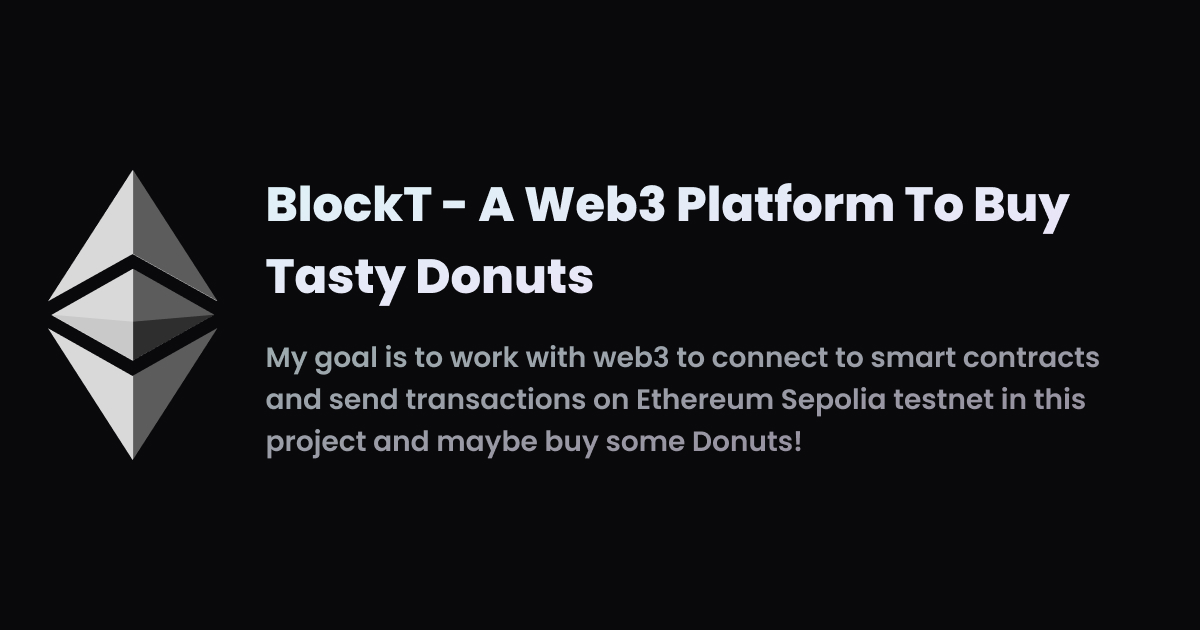
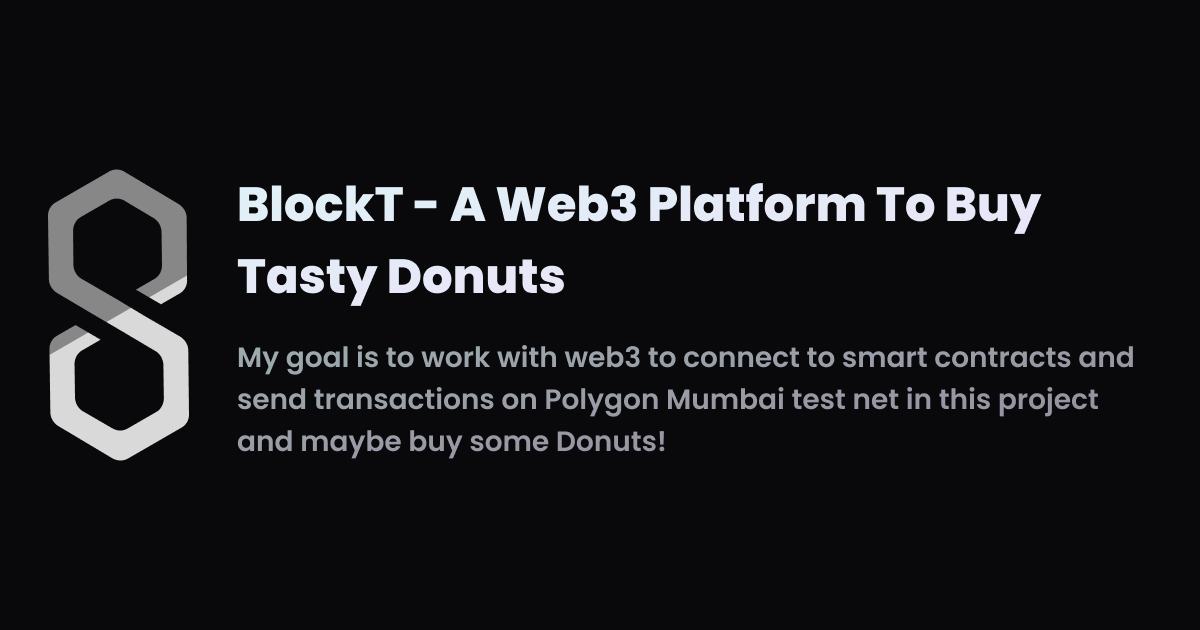
Switched network to polygon

Changed region(s): [[0.0308, 0.2714, 0.9558, 0.754], [0.185, 0.2714, 0.8942, 0.3619]]

diff --git a/src/components/utils/CustomHead.tsx b/src/components/utils/CustomHead.tsx
@@ -3,51 +3,51 @@ import Head from 'next/head'
 import { useRouter } from 'next/router'
 
 interface CustomHeadProps {
-  title?: string
-  description?: string
-  image?: string
-  url?: string
-  twitterCardType?: 'summary' | 'summary_large_image' | 'app' | 'player'
-  keywords?: string[]
+   title?: string
+   description?: string
+   image?: string
+   url?: string
+   twitterCardType?: 'summary' | 'summary_large_image' | 'app' | 'player'
+   keywords?: string[]
 }
 
 export default function CustomHead(props: CustomHeadProps) {
-  const router = useRouter()
+   const router = useRouter()
 
-  const seo = {
-     title: 'BlockT - A Web3 Platform To Buy Tasty Donuts',
-     description:
-        'My goal is to work with web3 to connect to smart contracts and send transactions on Ethereum Sepolia testnet in this project and maybe buy some Donuts!',
-     url: router.asPath,
-     image: preview.src,
-     twitterCardType: 'summary',
-     keywords: ['Sina', 'Kheiri', 'BlockT', 'Web3', 'Blockchain', 'Ethereum'],
-     ...props,
-  } satisfies CustomHeadProps
+   const seo = {
+      title: 'BlockT - A Web3 Platform To Buy Tasty Donuts',
+      description:
+         'My goal is to work with web3 to connect to smart contracts and send transactions on Polygon Mumbai testnet in this project and maybe buy some Donuts!',
+      url: router.asPath,
+      image: preview.src,
+      twitterCardType: 'summary',
+      keywords: ['Sina', 'Kheiri', 'BlockT', 'Web3', 'Blockchain', 'Polygon', 'Mumbai'],
+      ...props,
+   } satisfies CustomHeadProps
 
-  return (
-     <Head>
-        {/* Primary Meta Tags */}
-        <meta name="viewport" content="width=device-width, height=device-height" />
-        <title>{seo.title}</title>
-        <meta name="title" content={seo.title} />
-        <meta name="description" content={seo.description} />
-        <meta name="keywords" content={seo.keywords.join(', ')} />
-        <meta name="author" content="Sina Kheiri" />
+   return (
+      <Head>
+         {/* Primary Meta Tags */}
+         <meta name="viewport" content="width=device-width, height=device-height" />
+         <title>{seo.title}</title>
+         <meta name="title" content={seo.title} />
+         <meta name="description" content={seo.description} />
+         <meta name="keywords" content={seo.keywords.join(', ')} />
+         <meta name="author" content="Sina Kheiri" />
 
-        {/* Open Graph / Facebook */}
-        <meta property="og:type" content="website" />
-        <meta property="og:url" content={seo.url} />
-        <meta property="og:title" content={seo.title} />
-        <meta property="og:description" content={seo.description} />
-        <meta property="og:image" content={seo.image} />
+         {/* Open Graph / Facebook */}
+         <meta property="og:type" content="website" />
+         <meta property="og:url" content={seo.url} />
+         <meta property="og:title" content={seo.title} />
+         <meta property="og:description" content={seo.description} />
+         <meta property="og:image" content={seo.image} />
 
-        {/* Twitter */}
-        <meta property="twitter:card" content={seo.twitterCardType} />
-        <meta property="twitter:url" content={seo.url} />
-        <meta property="twitter:title" content={seo.title} />
-        <meta property="twitter:description" content={seo.description} />
-        <meta property="twitter:image" content={seo.image} />
-     </Head>
-  )
+         {/* Twitter */}
+         <meta property="twitter:card" content={seo.twitterCardType} />
+         <meta property="twitter:url" content={seo.url} />
+         <meta property="twitter:title" content={seo.title} />
+         <meta property="twitter:description" content={seo.description} />
+         <meta property="twitter:image" content={seo.image} />
+      </Head>
+   )
 }

diff --git a/src/components/layout/Footer.tsx b/src/components/layout/Footer.tsx
@@ -1,19 +1,19 @@
-import { Icon } from "@iconify-icon/react";
+import { Icon } from '@iconify-icon/react'
 
 export default function Footer() {
-  return (
-     <div className="flex items-center gap-2">
-        <div className="pointer-events-none flex place-items-center gap-2 font-mono text-sm font-black sm:hidden">
-           <Icon icon="cryptocurrency:etc" className="text-2xl" /> BlockT
-        </div>
+   return (
+      <div className="flex items-center gap-2">
+         <div className="pointer-events-none flex place-items-center gap-2 font-mono text-sm font-black sm:hidden">
+            <Icon icon="cryptocurrency:matic" className="text-2xl" /> BlockT
+         </div>
 
-        <div className="flex w-full max-w-5xl items-center justify-center gap-2 text-center font-mono text-sm">
-           Developed by
-           <a href="https://github.com/lWarwolfl" target="_blank" className="flex items-center">
-              <Icon icon="bxl:github" className="text-lg" />
-              lWarwolfl
-           </a>
-        </div>
-     </div>
-  )
+         <div className="flex w-full max-w-5xl items-center justify-center gap-2 text-center font-mono text-sm">
+            Developed by
+            <a href="https://github.com/lWarwolfl" target="_blank" className="flex items-center">
+               <Icon icon="bxl:github" className="text-lg" />
+               lWarwolfl
+            </a>
+         </div>
+      </div>
+   )
 }

diff --git a/src/lib/loader.ts b/src/lib/loader.ts
@@ -1,4 +1,5 @@
-import logo from '@public/logo.png';
+import logodark from '@public/logo-dark.png'
+import logolight from '@public/logo-light.png'
 
 export const loader = `
 * {
@@ -21,6 +22,10 @@ body {
     #globalLoader.loaded {
         background-color: hsla(240, 10%, 3.9%, 0.4);
     }
+
+    .loader {
+        background-image: url(${logodark.src});
+    }
 }
 
 @media (prefers-color-scheme: light) {
@@ -30,6 +35,10 @@ body {
 
     #globalLoader.loaded {
         background-color: hsla(0, 0%, 100%, 0.4);
+    }
+
+    .loader {
+        background-image: url(${logolight.src});
     }
 }
 
@@ -48,6 +57,15 @@ html.light #globalLoader {
 html.light #globalLoader.loaded {
     background-color: hsla(0, 0%, 100%, 0.4);
 }
+
+html.dark .loader {
+    background-image: url(${logodark.src});
+}
+
+html.light .loader {
+    background-image: url(${logolight.src});
+}
+
 
 #globalLoader {
     position: fixed;
@@ -71,7 +89,6 @@ html.light #globalLoader.loaded {
     background-position: center;
     background-size: contain;
     background-repeat: no-repeat;
-    background-image: url(${logo.src});
     transform-style: preserve-3d;
 }
 
@@ -83,4 +100,4 @@ html.light #globalLoader.loaded {
         transform: rotateY(360deg);
     }
 }
-`;
+`

diff --git a/src/lib/methods/purchase.ts b/src/lib/methods/purchase.ts
@@ -5,7 +5,7 @@ import { getMetamask } from '@/lib/web3/provider'
 import toast from 'react-hot-toast'
 import Web3 from 'web3'
 
-export const costPerDonut: number = 0.0005
+export const costPerDonut: number = 0.02
 
 interface Props {
    amount: number
@@ -17,10 +17,18 @@ export default async function purchase(params: Props, { loading }: AsyncFunction
       loading?.(true)
       const web3 = new Web3(getMetamask())
       const contract = getContract()
+
+      const gasPrice = await web3.eth.getGasPrice()
+      // const gasEstimate = await contract?.methods
+      //    .purchase(params.amount)
+      //    .estimateGas({ from: params.address })
+
       await contract?.methods
          .purchase(params.amount)
          .send({
             from: params.address,
+            gas: `${1_000_000}`,
+            gasPrice: `${Number(gasPrice)}`,
             value: (
                Number(web3.utils.toWei(`${costPerDonut}`, 'ether')) * params.amount
             ).toString(),

diff --git a/src/lib/contract/data.ts b/src/lib/contract/data.ts
@@ -1,4 +1,4 @@
-export const VendingmachineAddress = '0xbaA11FAF04e9e8A7FeCe9B574D8eFF1518386A68'
+export const VendingmachineAddress = '0xC8be6E33495f7FeBd224d38782BFB526642cCf9C'
 
 export const vendingMachineABI = [
    {
@@ -15,6 +15,19 @@ export const vendingMachineABI = [
          },
       ],
       name: 'donutBalances',
+      outputs: [
+         {
+            internalType: 'uint256',
+            name: '',
+            type: 'uint256',
+         },
+      ],
+      stateMutability: 'view',
+      type: 'function',
+   },
+   {
+      inputs: [],
+      name: 'getBalance',
       outputs: [
          {
             internalType: 'uint256',
@@ -73,6 +86,13 @@ export const vendingMachineABI = [
          },
       ],
       name: 'restock',
+      outputs: [],
+      stateMutability: 'nonpayable',
+      type: 'function',
+   },
+   {
+      inputs: [],
+      name: 'withdraw',
       outputs: [],
       stateMutability: 'nonpayable',
       type: 'function',

diff --git a/src/lib/web3/networks.ts b/src/lib/web3/networks.ts
@@ -2,14 +2,14 @@ import { type NetworkInterface } from '@/lib/interfaces'
 
 export const networks: NetworkInterface[] = [
    {
-      chainId: '0xaa36a7',
-      chainName: 'Sepolia test network',
+      chainId: '0x13881',
+      blockExplorerUrls: ['https://mumbai.polygonscan.com'],
       nativeCurrency: {
-         name: 'SepoliaETH',
-         symbol: 'SepoliaETH',
          decimals: 18,
+         name: 'MATIC',
+         symbol: 'MATIC',
       },
-      rpcUrls: ['https://sepolia.infura.io/v3/'],
-      blockExplorerUrls: ['https://sepolia.etherscan.io/'],
+      rpcUrls: ['https://polygon-mumbai.infura.io/v3/'],
+      chainName: 'Mumbai',
    },
 ]

diff --git a/src/components/landing/DonutForm.tsx b/src/components/landing/DonutForm.tsx
@@ -110,8 +110,8 @@ export function DonutForm() {
                               />
                            </FormControl>
                            <FormDescription>
-                              1 Donut = {costPerDonut} ETH <br />
-                              Total cost: {totalCost.toFixed(4)} ETH
+                              1 Donut = {costPerDonut} MATIC <br />
+                              Total cost: {totalCost.toFixed(2)} MATIC
                            </FormDescription>
                            <FormMessage />
                         </FormItem>

diff --git a/src/components/layout/Header.tsx b/src/components/layout/Header.tsx
@@ -96,7 +96,7 @@ export default function Header() {
          </div>
 
          <div className="pointer-events-none hidden place-items-center gap-2 font-mono font-black sm:flex">
-            BlockT <Icon icon="cryptocurrency:etc" className="text-3xl" />
+            BlockT <Icon icon="cryptocurrency:matic" className="text-3xl" />
          </div>
       </div>
    )

diff --git a/src/lib/web3/provider.ts b/src/lib/web3/provider.ts
@@ -2,7 +2,7 @@ import { type MetaMaskProviderInterface } from '@/lib/interfaces'
 import Web3 from 'web3'
 
 const web3provider = new Web3.providers.HttpProvider(
-   'https://sepolia.infura.io/v3/212d1693254640c2a54709133b3dc68a'
+   'https://polygon-mumbai.infura.io/v3/212d1693254640c2a54709133b3dc68a'
 )
 
 const getMetamask = () => {
